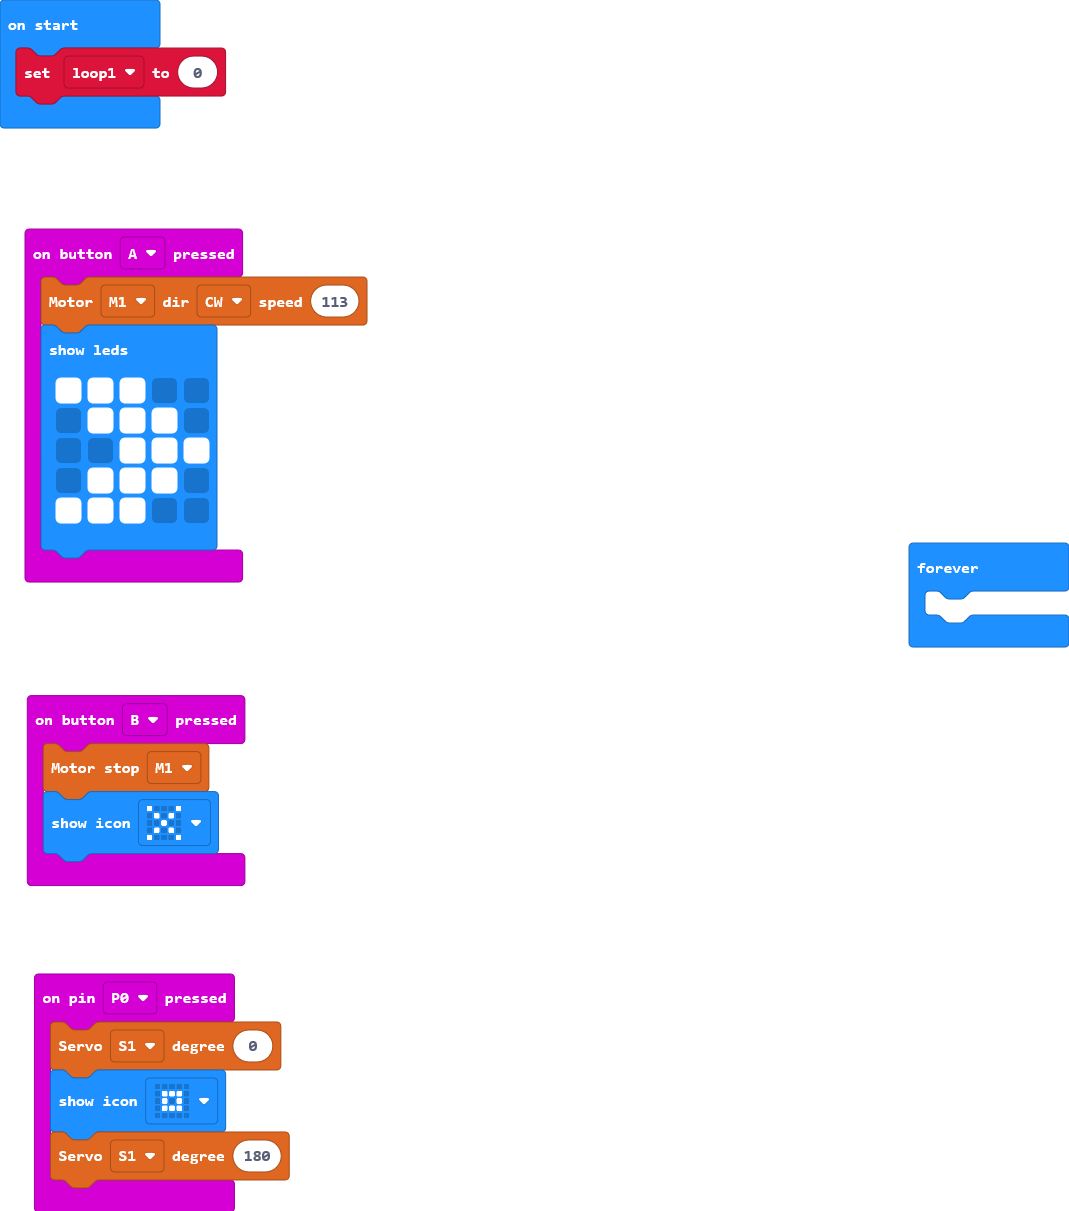
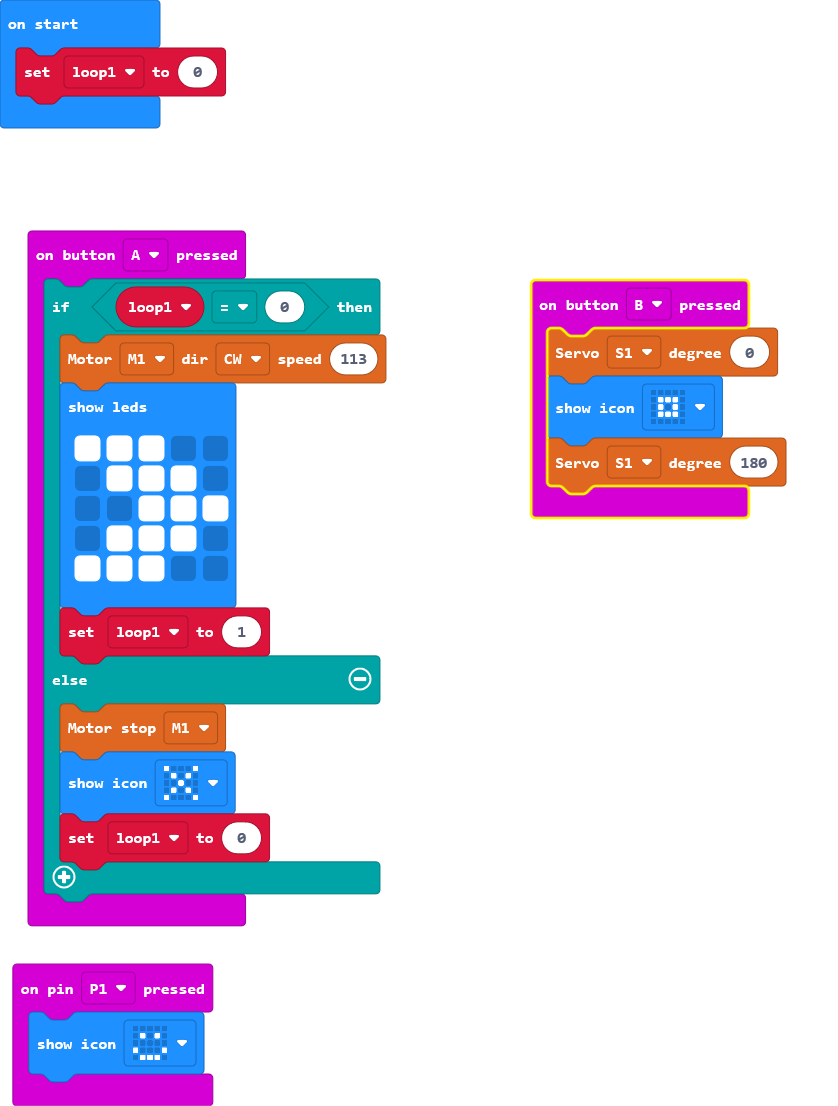
Update pxt.json, main.blocks, main.ts

Changed region(s): [[0.0, 0.1844, 0.4654, 1.0], [0.6205, 0.2459, 1.0, 0.5533], [0.0, 0.0, 0.2792, 0.123]]

diff --git a/main.ts b/main.ts
@@ -1,23 +1,27 @@
-input.onPinPressed(TouchPin.P0, function () {
+input.onButtonPressed(Button.A, function () {
+    if (loop1 == 0) {
+        motor.MotorRun(motor.Motors.M1, motor.Dir.CW, 113)
+        basic.showLeds(`
+            # # # . .
+            . # # # .
+            . . # # #
+            . # # # .
+            # # # . .
+            `)
+        loop1 = 1
+    } else {
+        motor.motorStop(motor.Motors.M1)
+        basic.showIcon(IconNames.No)
+        loop1 = 0
+    }
+})
+input.onButtonPressed(Button.B, function () {
     motor.servo(motor.Servos.S1, 0)
     basic.showIcon(IconNames.SmallSquare)
     motor.servo(motor.Servos.S1, 180)
 })
-input.onButtonPressed(Button.A, function () {
-    motor.MotorRun(motor.Motors.M1, motor.Dir.CW, 113)
-    basic.showLeds(`
-        # # # . .
-        . # # # .
-        . . # # #
-        . # # # .
-        # # # . .
-        `)
-})
-input.onButtonPressed(Button.B, function () {
-    motor.motorStop(motor.Motors.M1)
-    basic.showIcon(IconNames.No)
+input.onPinPressed(TouchPin.P1, function () {
+    basic.showIcon(IconNames.Happy)
 })
 let loop1 = 0
-basic.forever(function () {
-	
-})
+loop1 = 0
